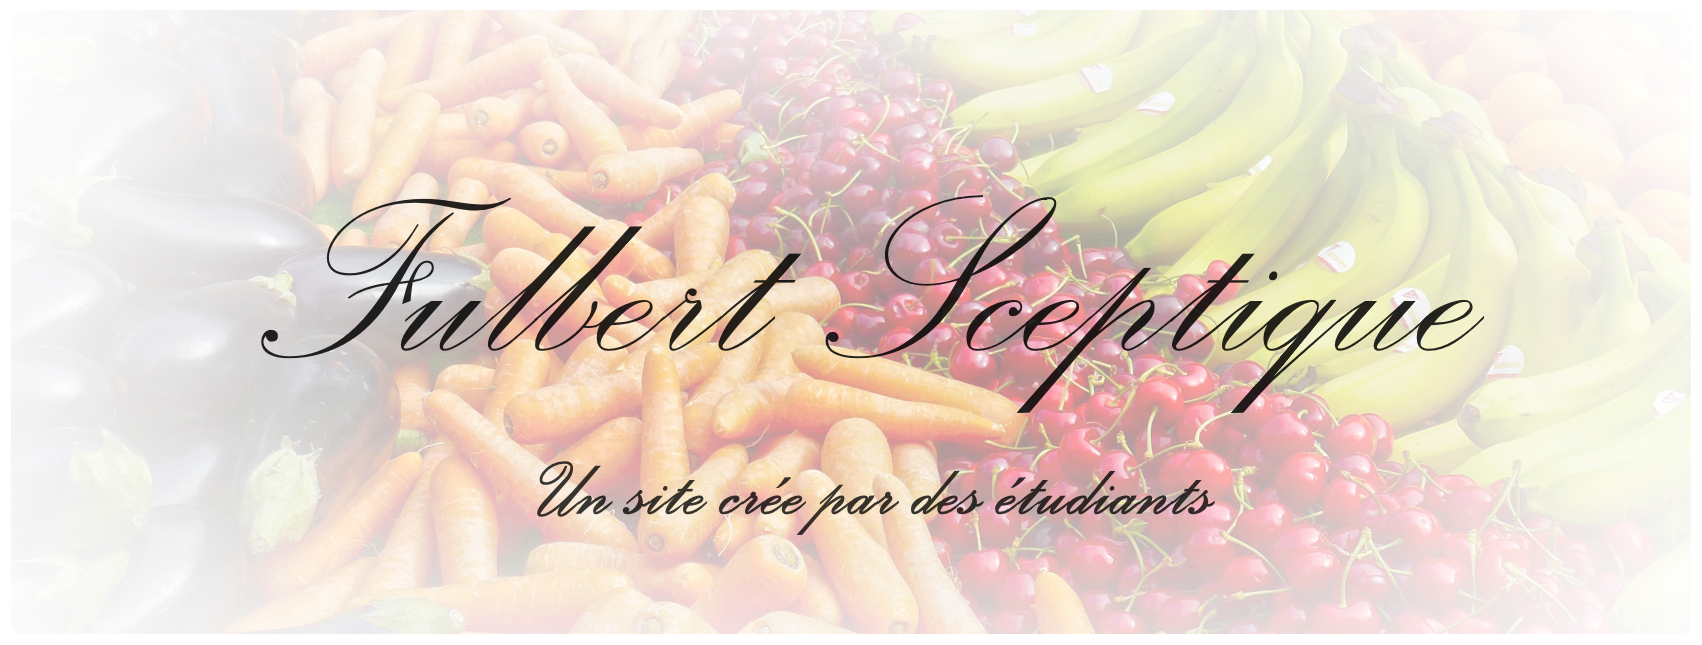
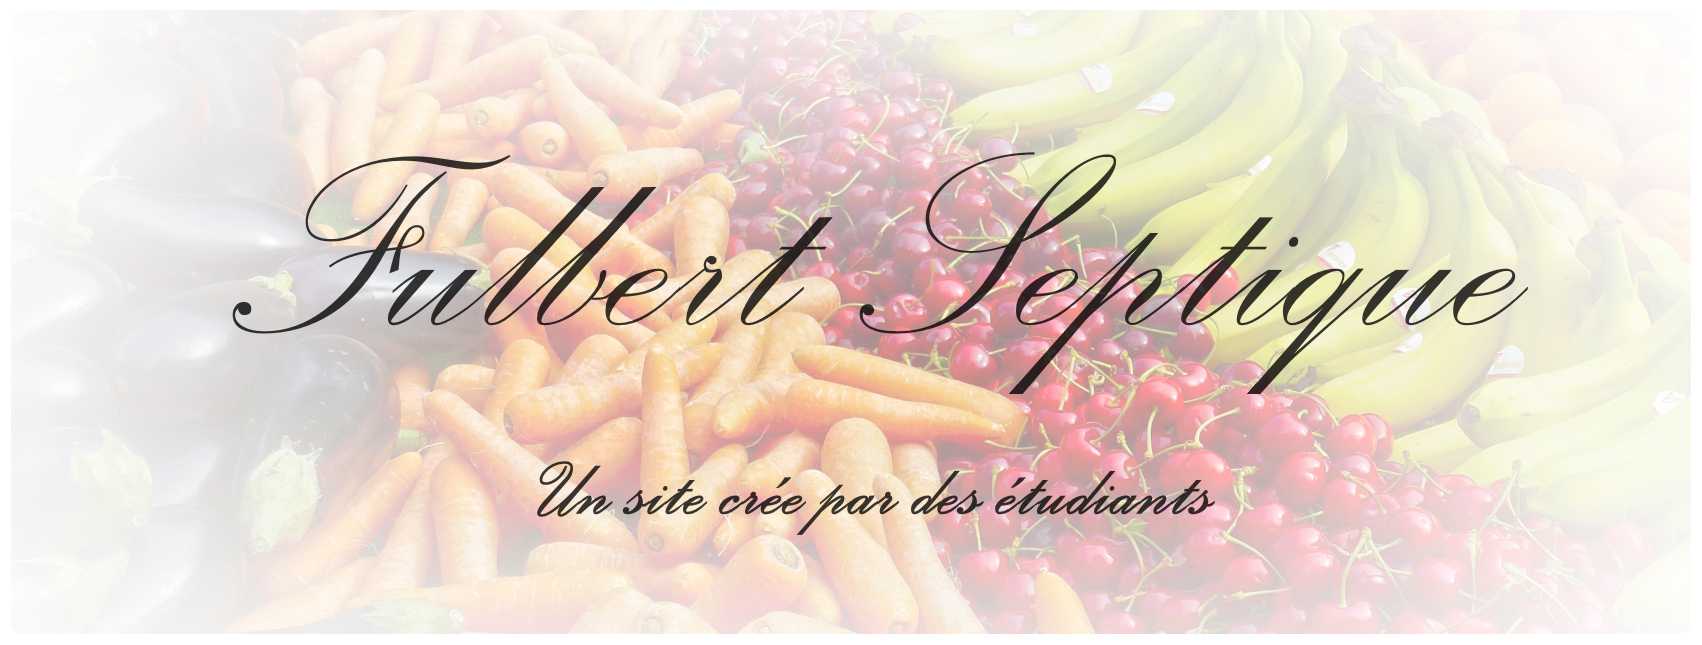
tien

diff --git a/site web prog/siteWebProg/contenu/style.css b/site web prog/siteWebProg/contenu/style.css
@@ -4,10 +4,16 @@
 	body {
     	background-color: #333;
 		width:98%;
+		margin:auto;
+		min-width:600px;
+		max-width:2000px;
 	}
 
 	head {
 		width:98%;
+		margin:auto;
+		min-width:600px;
+		max-width:2000px;
 	}
 
 /* Menu */
@@ -38,15 +44,19 @@
 	}
 
 /* Titre */
+	
+	h1 {
+		color: #01DF01;
+		text-align: left;
+	}
 
 	h2 {
 		color: #01DF01;
 		font-size: 40px;
 	}
 
-	h1 {
+	h3 {
 		color: #01DF01;
-		text-align: left;
 	}
 
 	h5 {

diff --git a/site web prog/siteWebProg/vue/menu.html b/site web prog/siteWebProg/vue/menu.html
@@ -26,7 +26,8 @@
 					Choix du mot-de-passe <br />  <input type="password" name="mot_de_passe" /><br />
 				</form>
 				<br /><input id="valider" type="submit" value="valider" />
-			</div>
 
+			</div>
+		<br /><center><h1>Bienvnue à toutes et à tous sur Fulbert Sceptique !</h1></center>
 	</body>
 </html>

diff --git a/site web prog/siteWebProg/vue/banniere.html b/site web prog/siteWebProg/vue/banniere.html
@@ -9,7 +9,7 @@
 <!-- Banniere -->
 
 			<body>
-			<br /><br /><br /><br /><br /><br /><br /><br /><br /><br /><br /><br /><body>
+			<br /><br /><br /><br /><br /><br /><br /><body>
 				<div id="barre">
 			</body>
 
